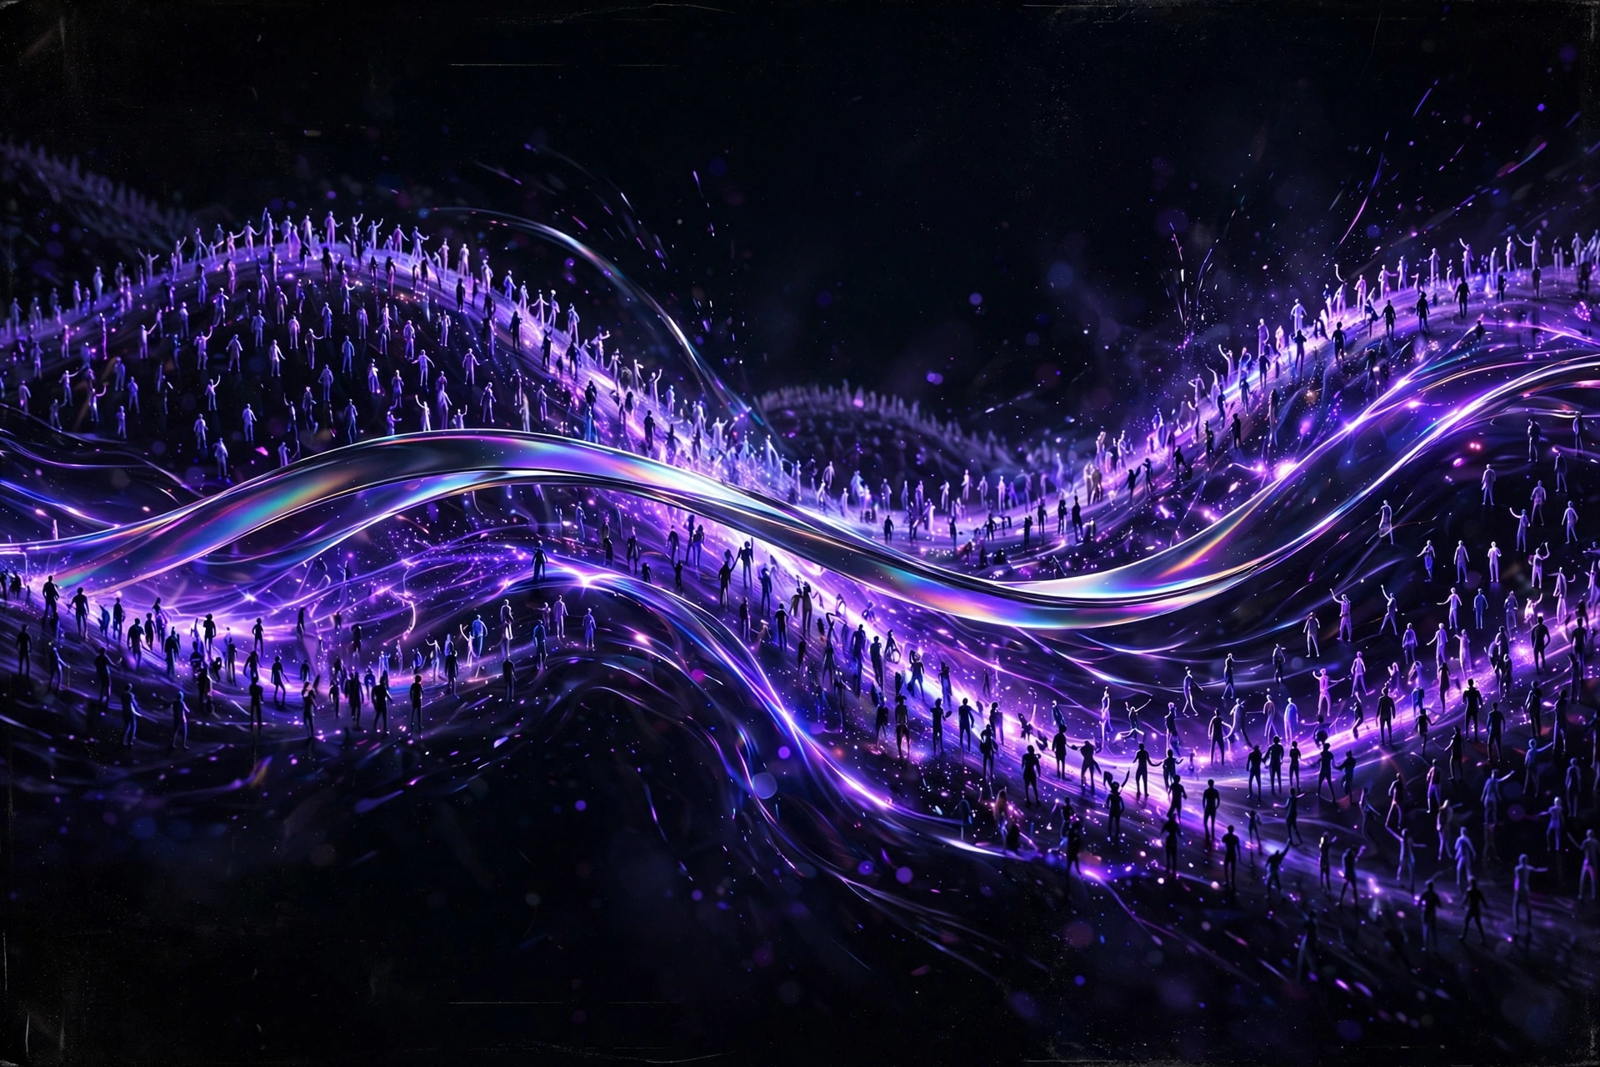
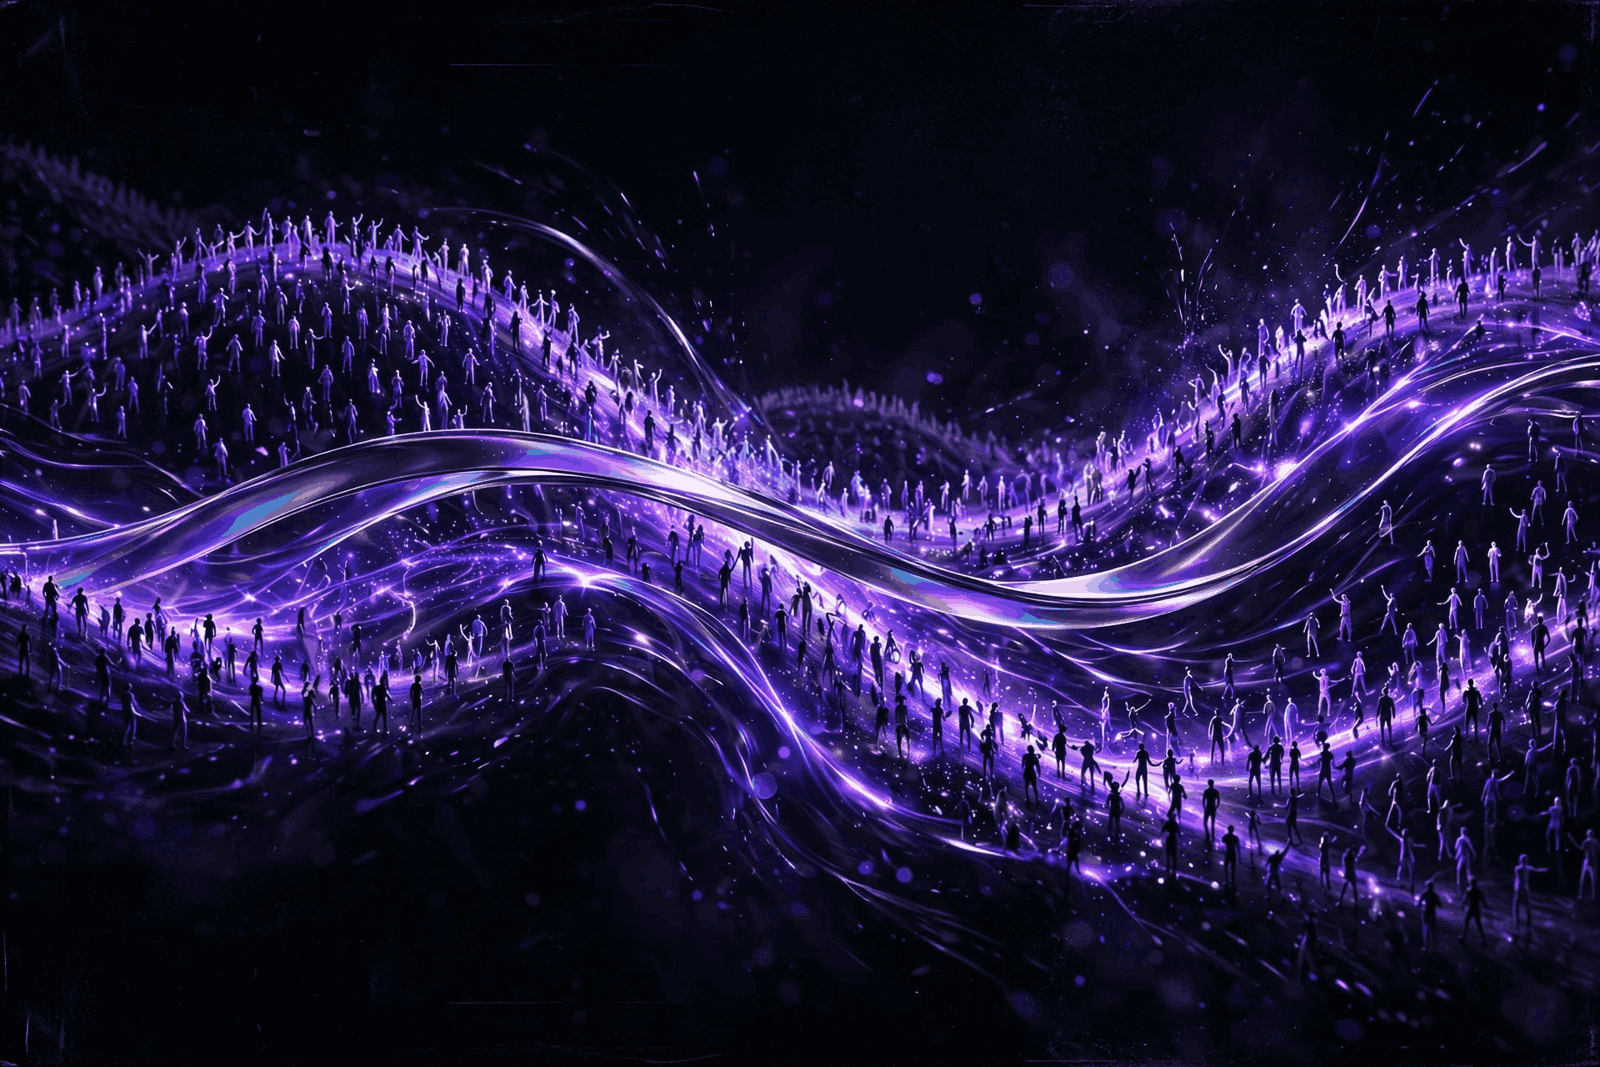
Fix audit 1: hide OS cursor on fine pointers, copy fallback, optimize ad.png
- Custom cursor: hide the native cursor (cursor: none on body/a/button)
  only when the custom cursor is live (html.has-cursor hook added by JS);
  inputs keep cursor: text. Reduced-motion keeps the OS cursor visible.
- Copy link: clipboard rejection now selects the input and tries the
  execCommand fallback, with a platform-neutral Ctrl+C / Cmd+C message
  (was a mobile-only long-press dead end).
- ad.png: libimagequant re-encode, 2,278,801 -> 473,494 bytes (-79%),
  same 1600x1067 PNG, PSNR 32.8 dB vs original.

diff --git a/script.js b/script.js
@@ -48,16 +48,27 @@
       function done(ok) {
         copyStatus.textContent = ok
           ? "Copied — share it with someone who builds."
-          : "Copy didn't work in this browser — long-press the link to copy it.";
+          : "Copy didn't work in this browser — the link above is selected, press Ctrl+C / Cmd+C to copy it.";
         copyBtn.textContent = ok ? "Copied" : "Copy link";
         window.setTimeout(function () { copyBtn.textContent = "Copy link"; }, 2500);
       }
       if (navigator.clipboard && navigator.clipboard.writeText) {
-        navigator.clipboard.writeText(text).then(function () { done(true); }, function () { done(false); });
+        navigator.clipboard.writeText(text).then(function () { done(true); }, function () {
+          /* Clipboard API rejected (e.g. permission denied): fall back to
+             selecting the text so the user can copy it manually. */
+          linkInput.focus();
+          linkInput.select();
+          var copied = false;
+          try { copied = doc.execCommand("copy"); } catch (err) { copied = false; }
+          done(copied);
+          if (copied) { linkInput.blur(); } else { linkInput.select(); }
+        });
       } else {
         linkInput.select();
-        try { done(doc.execCommand("copy")); } catch (err) { done(false); }
-        linkInput.blur();
+        var okLegacy = false;
+        try { okLegacy = doc.execCommand("copy"); } catch (err) { okLegacy = false; }
+        done(okLegacy);
+        if (okLegacy) { linkInput.blur(); } else { linkInput.select(); }
       }
     });
   }
@@ -68,6 +79,8 @@
   var dot = cursor ? cursor.querySelector(".cursor-dot") : null;
   var ring = cursor ? cursor.querySelector(".cursor-ring") : null;
   if (finePointer && cursor && dot && ring && !reduced) {
+    /* Custom cursor is live: hide the OS cursor (CSS .has-cursor hook). */
+    doc.documentElement.classList.add("has-cursor");
     var cx = -100, cy = -100, rx = -100, ry = -100, shown = false;
     doc.addEventListener("mousemove", function (e) {
       cx = e.clientX; cy = e.clientY;

diff --git a/style.css b/style.css
@@ -429,6 +429,10 @@ html.js .reveal.in { opacity: 1; transform: none; }
 /* Custom cursor: fine pointers only */
 .cursor { display: none; }
 @media (pointer: fine) {
+  /* Hide the OS cursor only when the custom cursor is actually active
+     (JS adds .has-cursor to <html>); inputs keep a text cursor. */
+  html.has-cursor body, html.has-cursor a, html.has-cursor button { cursor: none; }
+  html.has-cursor input, html.has-cursor textarea { cursor: text; }
   .cursor { display: block; position: fixed; left: 0; top: 0; z-index: 80; pointer-events: none; }
   .cursor-dot, .cursor-ring {
     position: fixed;
